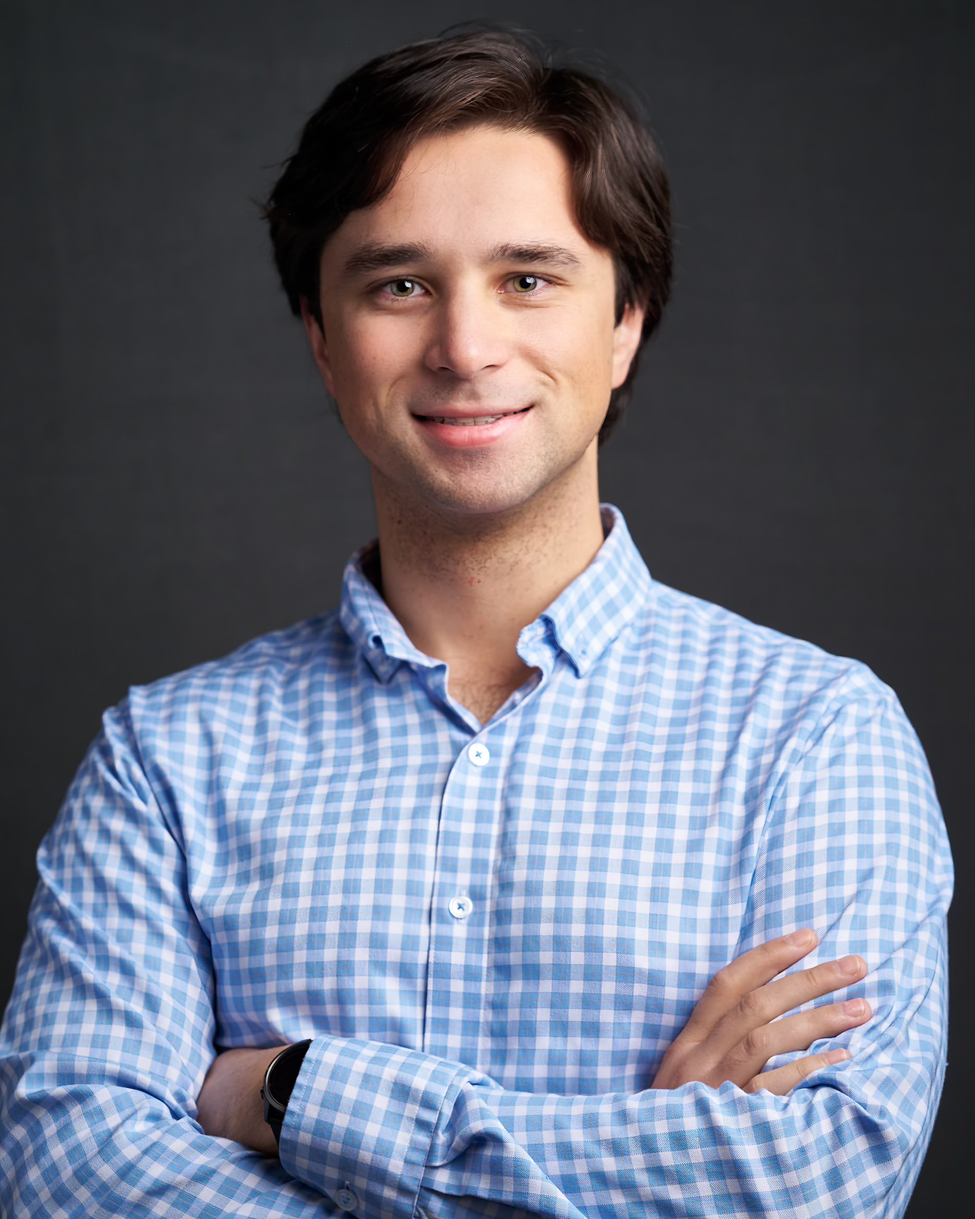
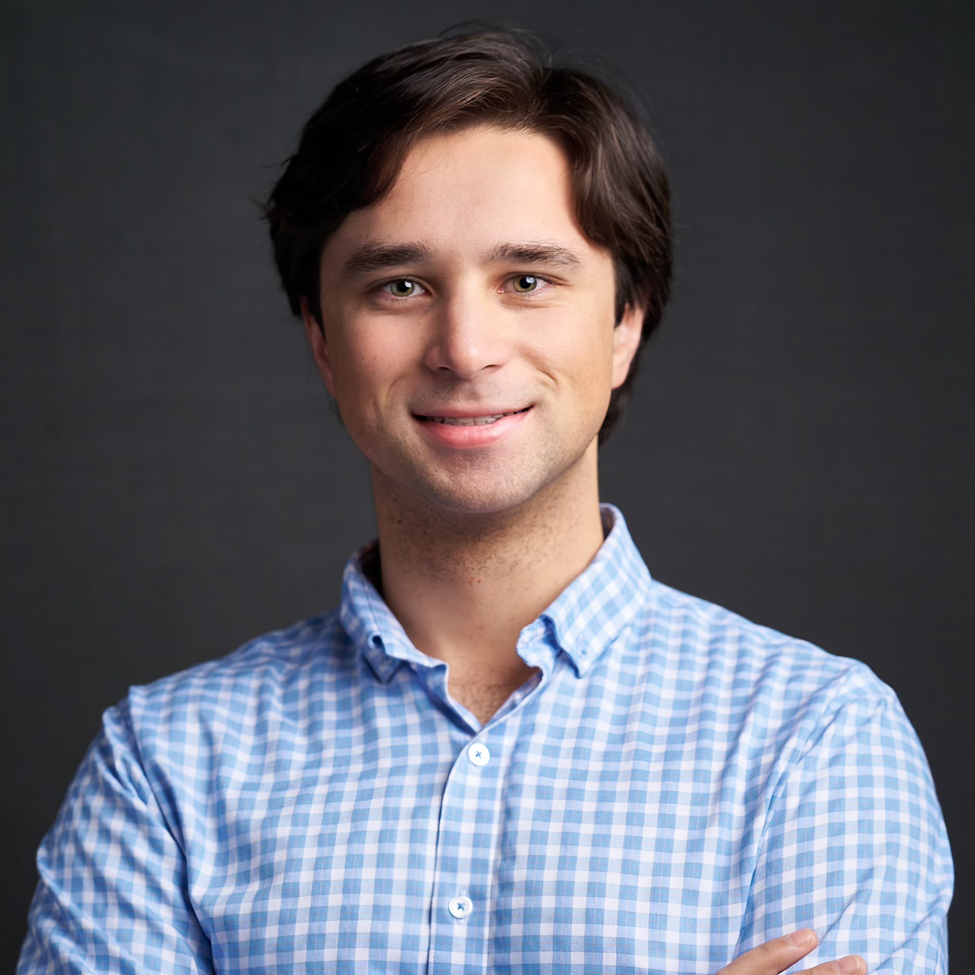
updated projects and edited profile picture

diff --git a/public/footer.html b/public/footer.html
@@ -2,9 +2,6 @@
 <footer class="footer">
     
     <div class="content has-text-centered">
-      <p>&copy; 2024 Michael Sexton. All rights reserved.</p>
-
-    
         <i class="fas fa-envelope icon mr-2"></i>Email: ms3648 (at) cornell.edu
 
         <i class="fas fa-home icon mr-2"></i>Location: New York, NY
@@ -18,6 +15,8 @@
           <a href="https://github.com/michaelsexton21"
             >github.com/michaelsexton21</a
           >
+
+          <p>&copy; 2024 Michael Sexton. All rights reserved.</p>
       </div>
 
   </footer>

diff --git a/public/pages/projects.md b/public/pages/projects.md
@@ -1,5 +1,12 @@
 # Academic Projects
 
+## Startup Studio Project - [MercuryVote](https://mercuryvote.com)
+
+- **Languages/Tools**: React, Next.js, Vercel, Supabase (database), Figma, Google Analytics
+- **Description**: MercuryVote is an auction-based marketplace that empowers shareholders to generate extra revenue by selling their unused proxy voting rights. Enabling, activist investors to purchase these proxy votes to impact boards and proposals at the next corporate election.
+
+- **Details**: By leveraging legal precedents and addressing the challenges faced in corporate elections—such as the lack of engagement from retail investors and the high costs associated with opposing company directives—MercuryVote offers a transparent, efficient solution. The platform is built by a team with diverse expertise, from software engineering to law, and plans to attract its initial user base through targeted outreach and leveraging the inherent demand for cost-effective proxy acquisition. With a business model that benefits from transaction fees and campaign listings, Mercury Vote aims to make the process of proxy voting more accessible and impactful. The competitive landscape, highlighted by the exit of a main competitor, underscores the timely opportunity for MercuryVote to establish new standards in proxy voting transparency and efficiency. The market potential is significant, with a total addressable market ranging between $330 million and $580 million annually, signifying a ripe opportunity for disruption in proxy solicitation and advocacy. Mercury Vote's unique value proposition, strategic go-to-market plan, and clear roadmap for growth showcase its potential to transform the proxy voting landscape.
+
 ## Machine Learning Engineering
 
 - **Languages/Tools**: Python, numpy
